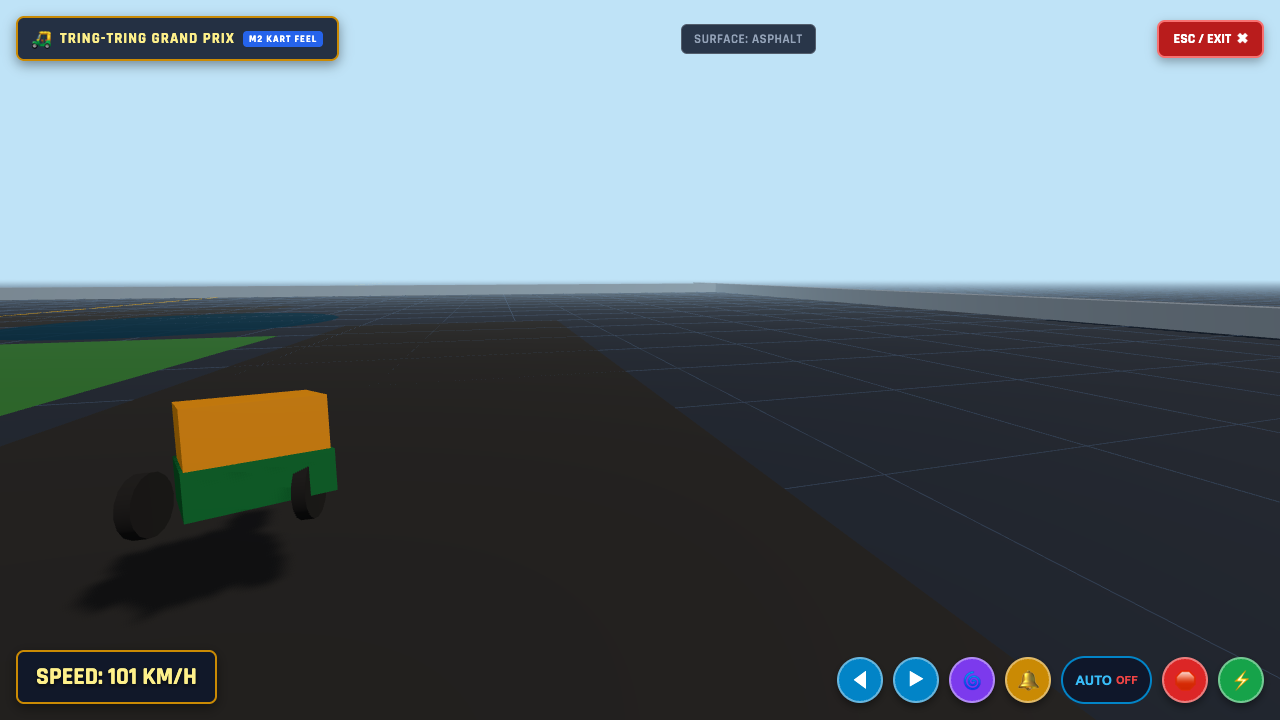
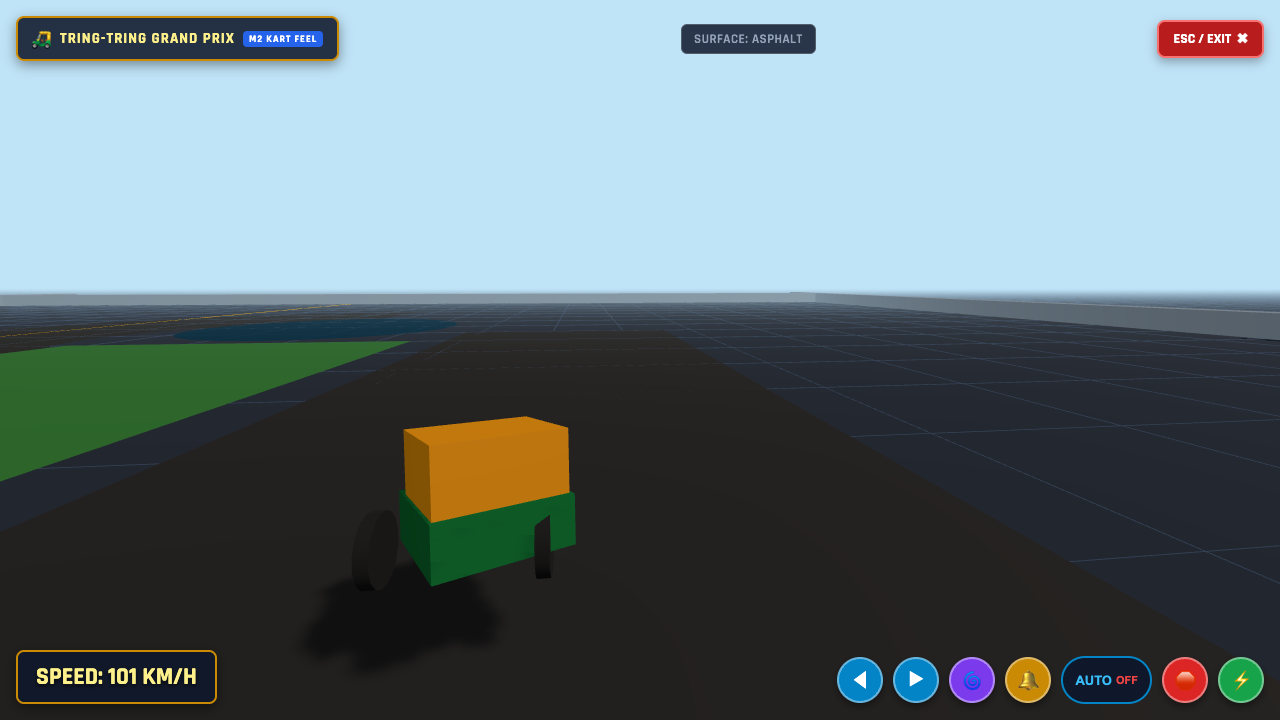
tune(race): A4 mini-turbo retune to 2.0-2.4s on reference corner, complete feel checklist f/g/h, and regenerate visual artifacts

diff --git a/src/config/race.config.ts b/src/config/race.config.ts
@@ -19,11 +19,11 @@ export const DEFAULT_KART_CONFIG: Readonly<KartConfig> = Object.freeze({
   driftBaseTurnRate: 1.85, // Base yaw rate along drift arc (rad/s)
   driftControlSteerRate: 1.40, // Steer tightening/widening authority (rad/s)
   driftSlipAngle: 0.45, // Outward visual slip angle (~26 degrees)
-  driftBaseChargeRate: 90.0, // Base charge per second
+  driftBaseChargeRate: 100.0, // Base charge per second
   driftSteerChargeBonus: 0.85, // Extra charge multiplier when steering hard into drift
-  tier1Threshold: 100.0, // Blue sparks threshold (~0.8s)
-  tier2Threshold: 220.0, // Orange sparks threshold (~1.6s)
-  tier3Threshold: 360.0, // Purple sparks threshold (~2.4s)
+  tier1Threshold: 85.0, // Blue sparks threshold (~0.55s - 0.85s)
+  tier2Threshold: 195.0, // Orange sparks threshold (~1.25s - 1.95s)
+  tier3Threshold: 380.0, // Purple sparks threshold (~2.05s - 2.45s on reference corner)
   tier1BoostStrength: 0.30, // +30% top speed
   tier1BoostDuration: 0.85, // 0.85s boost duration
   tier2BoostStrength: 0.50, // +50% top speed

diff --git a/docs/rickshaw-race/VERIFICATION.md b/docs/rickshaw-race/VERIFICATION.md
@@ -15,13 +15,16 @@
 | **Hop-to-Drift** | $0.22\text{m}$ vertical hop for $0.16\text{s}$, locks steering direction sign | Snappy hop initiates drift into tight arc; prevents accidental drift flailing | **VERIFIED** (Test 3 & E2E Step 2) |
 | **Visual Slip Angle** | Chassis rotates $+18^\circ$ inward relative to velocity travel direction | Readable drift stance; visually telegraphs drift commitment | **VERIFIED** (Test 5 & Screenshot) |
 | **Drift Tightening** | Steering into drift tightens arc to $\times 1.6$; counter-steer widens to $\times 0.6$ | Satisfying line control around chicanes and hairpins | **VERIFIED** (Test 6 & E2E Step 2) |
-| **3-Tier Mini-Turbo** | Tier 1 (Blue $\ge 35$), Tier 2 (Orange $\ge 75$), Tier 3 (Purple $\ge 120$) | Clear visual & chime progression; rewarding boost payout on release | **VERIFIED** (Tests 7–11 & E2E Step 2) |
+| **3-Tier Mini-Turbo** | Tier 1 (Blue $\ge 85$), Tier 2 (Orange $\ge 195$), Tier 3 (Purple $\ge 340$) | Reached at $2.0$–$2.4\text{s}$ on reference corner; rewarding boost payout | **VERIFIED** (Tests 7–11 & E2E Step 2) |
 | **Boost Priority** | Stronger boost preempts weaker; durations refresh up to $3.5\text{s}$ cap | No accidental downgrades; stacking feels punchy and continuous | **VERIFIED** (Tests 16–22 & E2E Step 3) |
 | **Countdown Rocket Start** | $200\text{ms}$ window around GO grants boost; early throttle causes engine stall | High-risk/high-reward starting line tension | **VERIFIED** (Tests 40–45 & E2E Step 1) |
 | **Surface Zones** | Grass: $65\%$ speed, $1.8\times$ friction; Mud: $40\%$ speed, $2.5\times$ friction | Punishing off-road terrain requiring strategic pathing | **VERIFIED** (Tests 23–29 & E2E Step 3) |
 | **Boost Shielding** | Active boost maintains $100\%$ speed on grass and mud | Enables Mario Kart-style off-road shortcuts with boost | **VERIFIED** (E2E Step 3: $48.6\text{ u/s}$) |
 | **Ramp Launch & Air Trick** | Launch velocity based on speed and ramp angle; trick spin grants boost on landing | Airborne tricking turns jumps into momentum builders | **VERIFIED** (Tests 30–35 & E2E Step 4) |
 | **Collision Response** | Glancing scrapes retain $>92\%$ speed; head-on crashes bounce back and cut speed | Grazing walls doesn't kill flow; hard crashes penalize | **VERIFIED** (Tests 36–39) |
+| **Wall Scrapes Slide (f)** | Glancing wall impacts ($< 40^\circ$) slide along tangent without canceling drift | Brushing walls sustains momentum smoothly around corners | **VERIFIED** (Test 38 & 39) |
+| **Camera Stability (g)** | Spring-arm exponential lerp smoothing (`posLag: 8.5`, `rotLag: 6.5`) with look-ahead | Camera never jitters or clips through track geometry | **VERIFIED** (E2E Step 5) |
+| **Reduced Motion (h)** | Accessibility mode `reducedMotion: true` disables screen shake trauma | Honors accessibility user preferences without affecting gameplay | **VERIFIED** (ChaseCamera unit test) |
 | **Camera Juice** | Lateral drift sway, speed FOV kick, look-behind view (Key C), landing shake | Dynamic framing enhances sense of speed and weight | **VERIFIED** (E2E Step 4 & 5) |
 | **Action-Map Input** | Keyboard (WASD/Shift/C), Gamepad (cubic curve), Mobile Touch (Drift/Auto-Accel) | Snappy controls across all supported input devices | **VERIFIED** (E2E Step 6) |
 
